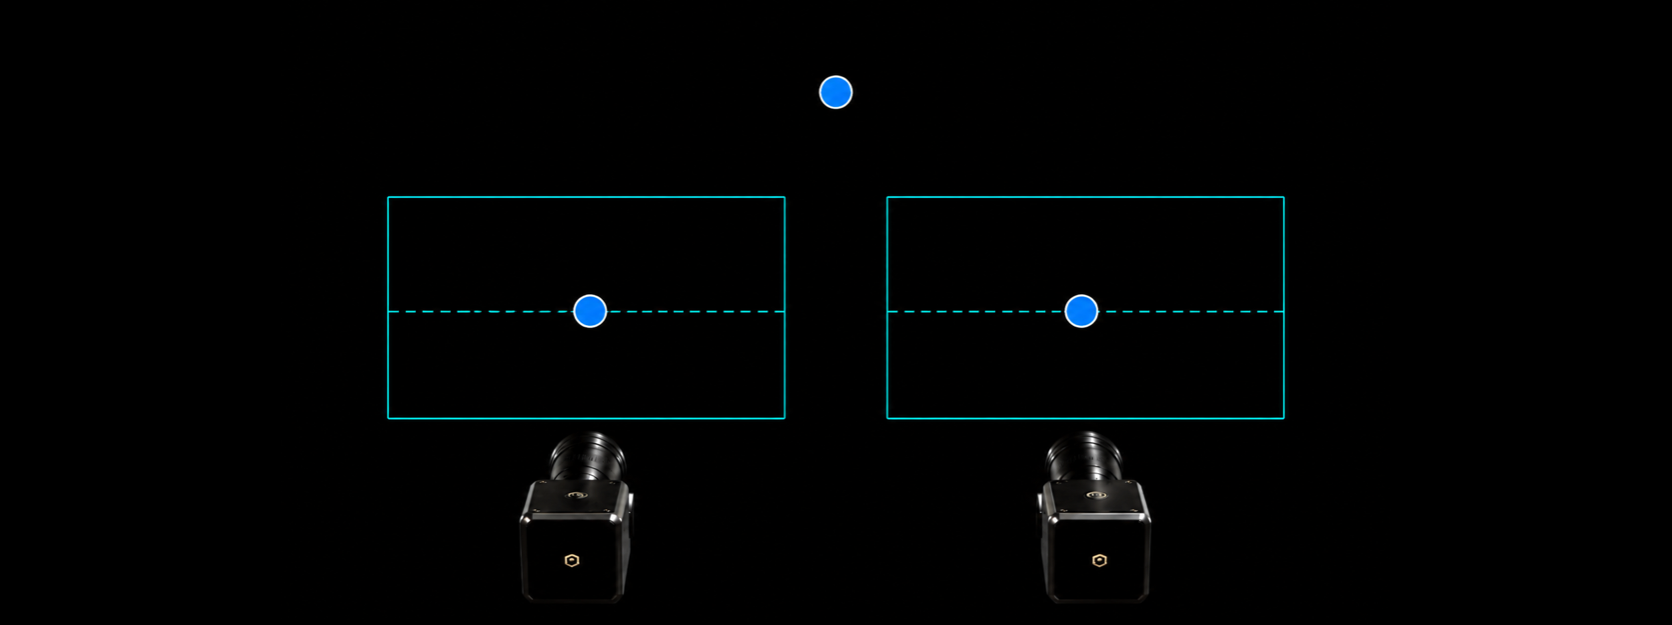
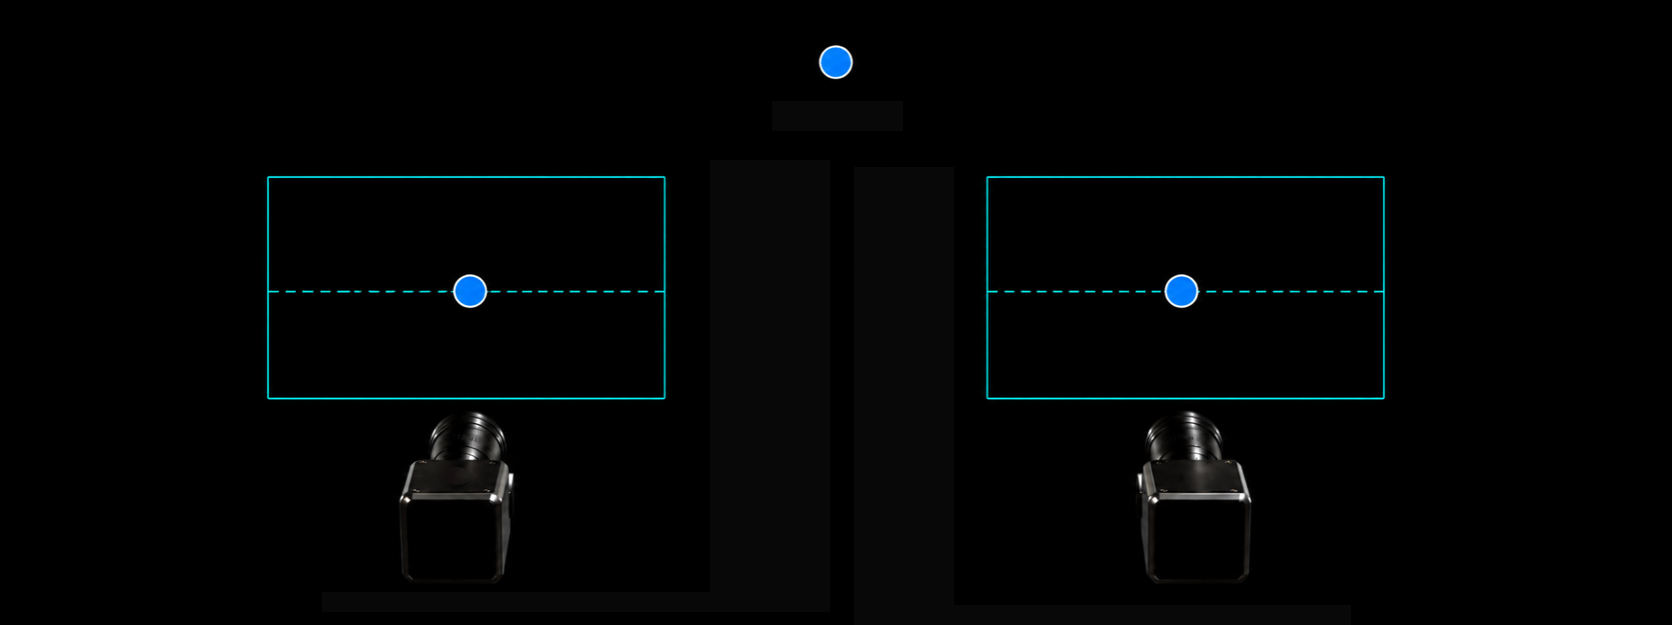
Replace Parallel Stereo teaser

diff --git a/docs/index.html b/docs/index.html
@@ -29,7 +29,7 @@
     <a class="visualization-card" href="https://csprofkgd.github.io/partial-derivatives-visualization/" target="_blank" rel="noreferrer"><div class="image-link"><img class="teaser-image" src="./teasers/partial-derivatives-dark.png" alt="Partial Derivatives teaser"></div><div class="card-copy"><div><p class="category">Calculus</p><h3>Partial Derivatives</h3><p class="description">Hold one variable constant. Follow the curve. Read the slope.</p></div></div></a>
     <a class="visualization-card" href="https://csprofkgd.github.io/system-of-equations-visualization/" target="_blank" rel="noreferrer"><div class="image-link"><img class="teaser-image" src="./teasers/system-of-equations-dark.png" alt="Linear Systems as Geometry teaser"></div><div class="card-copy"><div><p class="category">Linear Algebra</p><h3>Linear Systems as Geometry</h3><p class="description">Where constraints meet, solutions appear.</p></div></div></a>
     <a class="visualization-card featured" href="https://csprofkgd.github.io/stereo-rectification-lab/" target="_blank" rel="noreferrer"><div class="image-link"><img class="teaser-image" src="./teasers/stereo-rectification-dark.png" alt="Stereo Rectification teaser"></div><div class="card-copy"><div><p class="category">Projective Geometry</p><h3>Stereo Rectification</h3><p class="description">From arbitrary cameras to parallel views.</p></div></div></a>
-    <a class="visualization-card" href="https://csprofkgd.github.io/parallel-stereo-visualization/" target="_blank" rel="noreferrer"><div class="image-link"><img class="teaser-image" src="./teasers/parallel-stereo-dark.png" alt="Parallel Stereo teaser"></div><div class="card-copy"><div><p class="category">Projective Geometry</p><h3>Parallel Stereo</h3><p class="description">Two views. One point. One matching scanline.</p></div></div></a>
+    <a class="visualization-card" href="https://csprofkgd.github.io/parallel-stereo-visualization/" target="_blank" rel="noreferrer"><div class="image-link"><img class="teaser-image" src="./teasers/parallel-stereo-dark.png?v=20260826-binocular" alt="Parallel Stereo teaser"></div><div class="card-copy"><div><p class="category">Projective Geometry</p><h3>Parallel Stereo</h3><p class="description">Two views. One point. One matching scanline.</p></div></div></a>
     <a class="visualization-card" href="https://csprofkgd.github.io/epipolar-geometry-visualization/" target="_blank" rel="noreferrer"><div class="image-link"><img class="teaser-image" src="./teasers/epipolar-geometry-dark.png" alt="Epipolar Geometry teaser"></div><div class="card-copy"><div><p class="category">Projective Geometry</p><h3>Epipolar Geometry</h3><p class="description">The geometry behind stereo vision.</p></div></div></a>
     <a class="visualization-card" href="https://csprofkgd.github.io/planar-homography-lab/" target="_blank" rel="noreferrer"><div class="image-link"><img class="teaser-image" src="./teasers/planar-homography-dark.png" alt="Planar Homography teaser"></div><div class="card-copy"><div><p class="category">Projective Geometry</p><h3>Planar Homography</h3><p class="description">Plane-to-plane projective mapping.</p></div></div></a>
     <a class="visualization-card" href="https://csprofkgd.github.io/perspective-projection/" target="_blank" rel="noreferrer"><div class="image-link"><img class="teaser-image" src="./teasers/perspective-projection-dark.png" alt="Perspective Projection teaser"></div><div class="card-copy"><div><p class="category">Projective Geometry</p><h3>Perspective Projection</h3><p class="description">One point. One ray. One image.</p></div></div></a>

diff --git a/app/page.tsx b/app/page.tsx
@@ -102,7 +102,7 @@ const visualizations: Visualization[] = [
   },
 ];
 
-const TEASER_ASSET_VERSION = "20260826-mobile-spacing-parallel-stereo";
+const TEASER_ASSET_VERSION = "20260826-binocular-parallel-stereo";
 
 export default function Home() {
   const [theme, setTheme] = useState<Theme>("dark");

diff --git a/context.md b/context.md
@@ -26,7 +26,7 @@ Updated: 2026-08-26
 
 - Perspective Projection: use the new photoreal scene with tree/rocks, opaque pinhole plane, one ray, and inverted image-plane projection. The incident ray remains visible from the world point to the pinhole; only the outgoing portion directly behind the opaque plane is subdued, and full cyan resumes exactly at the projected plane boundary before continuing to the image point.
 - Sphere to Cubemap and Sphere to Equirectangular Projection: use the outpainted compositions with black background at every raster edge and modest breathing room around the complete globe and mapping diagram. Preserve every legitimate cyan latitude/longitude arc and every cyan cubemap/ERP segment outline. Remove the orange/coral vertical meridian and all associated glow from both representations.
-- Parallel Stereo: use the user-supplied 2026-08-26 raster `codex-clipboard-6e65b9e5-d880-4fba-82dc-8fe4fee21686.png`, normalized to the shared 1672×625 canvas for both dark and light teaser assets.
+- Parallel Stereo: use the user-supplied `/Users/kosta/Downloads/binocular.png` raster, already at the shared 1672×625 canvas, identically for both dark and light teaser assets.
 - Stereo Rectification uses the user-supplied final raster `codex-clipboard-f95718d9-d220-469a-b67a-32e735d792ae.png` for both dark and light teaser assets. Epipolar Geometry, Local Minimum, and Parallel Stereo use outpainted compositions with black background at every raster edge and breathing room around all cameras, points, surfaces, paths, and image planes.
 - Partial Derivatives: use the new simplified saddle, one vertical slice plane, true intersection curve, and tangent line. Do not use the older two-plane image.
 - Planar Homography: no correspondence lines. Use the exact author portrait from the hero card on the wall plane. The right portrait must be the direct deterministic projective warp of the exact selected left quadrilateral—not a fresh crop or regenerated portrait—with all four uniquely colored corner pairs and the same shoulder features touching the corresponding bottom corners.
